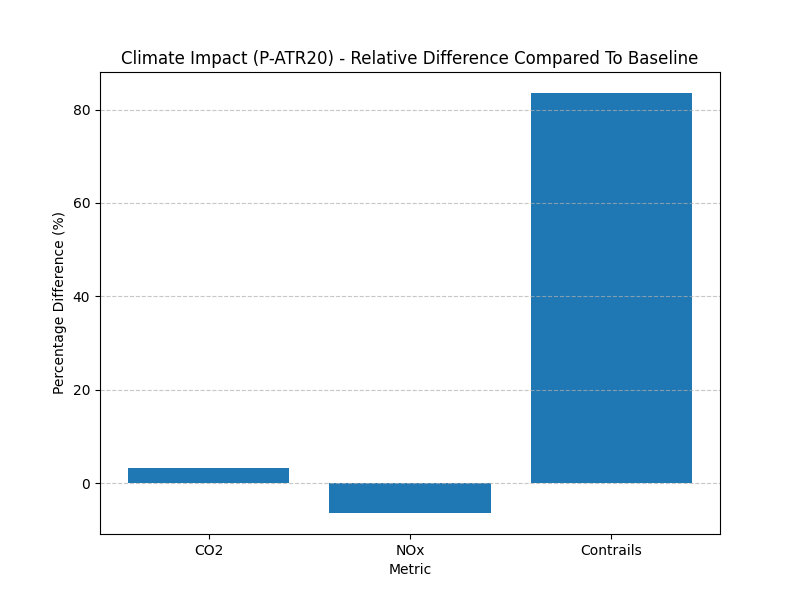
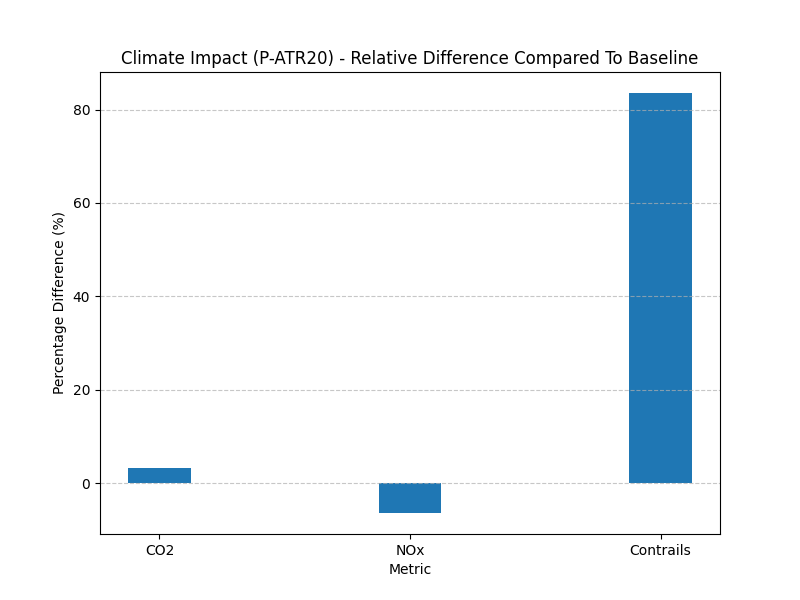
small bar chart changes

diff --git a/results_malaga.py b/results_malaga.py
@@ -149,15 +149,15 @@ def plot_flight_data(flight_dirs, output_dirs, engine_models):
 prediction = 'mees'
 weather_model = 'era5model'
 engine_model_1 = 'GTF'
-prediction_2 = 'mees'
-weather_model_2 = 'era5'
+prediction_2 = 'pycontrails'
+weather_model_2 = 'era5model'
 engine_model_2 = 'GTF'
 
 flight1_dir = f"main_results_figures/results/malaga/malaga/climate/{prediction}/{weather_model}"
 flight2_dir = f"main_results_figures/results/malaga/malaga/climate/{prediction_2}/{weather_model_2}"
 
-output1_dir = f"main_results_figures/figures/malaga/malaga/climate/{prediction}/{weather_model}/cocip/{engine_model_1}/era5"
-output2_dir = f"main_results_figures/figures/malaga/malaga/climate/{prediction_2}/{weather_model_2}/cocip/{engine_model_2}/era5"
+output1_dir = f"main_results_figures/figures/malaga/malaga/climate/{prediction}/{weather_model}/cocip/{engine_model_1}/pycontrails"
+output2_dir = f"main_results_figures/figures/malaga/malaga/climate/{prediction_2}/{weather_model_2}/cocip/{engine_model_2}/pycontrails"
 
 plot_flight_data([flight1_dir, flight2_dir], [output1_dir, output2_dir], [engine_model_1, engine_model_2])
 
@@ -194,28 +194,31 @@ percentage_differences = {
 
 # Create a bar plot
 plt.figure(figsize=(8, 6))
-plt.bar(percentage_differences.keys(), percentage_differences.values())
+x_emissions = np.arange(len(percentage_differences))
+plt.bar(x_emissions, list(percentage_differences.values()), width=0.5)
+plt.xticks(x_emissions, list(percentage_differences.keys()))
 plt.xlabel("Metric")
 plt.ylabel("Percentage Difference (%)")
 plt.title("Emissions - Relative Difference Compared To Baseline")
 plt.grid(axis='y', linestyle='--', alpha=0.7)
 plt.savefig(f'results_report/climate_sensitivity_chapter/{prediction}_{prediction_2}_{weather_model}_{weather_model_2}_emissions.png', format='png')
-plt.show()
+
 
 
 dt = 60
 
 total_co2_impact_1 = (df_1['fuel_flow']*dt*df_1['accf_sac_aCCF_CO2']).sum()
 total_co2_impact_gsp_2 = (df_2['fuel_flow']*dt*df_2['accf_sac_aCCF_CO2']).sum()
-
+print(total_co2_impact_1)
+print(total_co2_impact_gsp_2)
 total_nox_impact_1 = (df_1['fuel_flow']*dt*(df_1['accf_sac_aCCF_O3']+df_1['accf_sac_aCCF_CH4']*1.29)*df_1['ei_nox']).sum()
 total_nox_impact_gsp_2 = (df_2['fuel_flow']*dt*(df_2['accf_sac_aCCF_O3']+df_2['accf_sac_aCCF_CH4']*1.29)*df_2['ei_nox']).sum()
 print(total_nox_impact_1)
 print(total_nox_impact_gsp_2)
 total_cocip_atr20_impact_1 = np.absolute(df_1['cocip_atr20'].sum()*0.42)
 total_cocip_atr20_impact_gsp_2 = np.absolute(df_2['cocip_atr20'].sum()*0.42)
-total_cocip_atr20_impact_1 = df_1['cocip_atr20'].sum()*0.42
-total_cocip_atr20_impact_gsp_2 = df_2['cocip_atr20'].sum()*0.42
+# total_cocip_atr20_impact_1 = df_1['cocip_atr20'].sum()*0.42
+# total_cocip_atr20_impact_gsp_2 = df_2['cocip_atr20'].sum()*0.42
 print(total_cocip_atr20_impact_1)
 print(total_cocip_atr20_impact_gsp_2)
 # total_non_co2_impact_1 = df_1['accf_sac_nox_impact'].sum()+df_1['cocip_atr20'].sum()
@@ -234,7 +237,9 @@ percentage_climate_differences = [
 ]
 
 plt.figure(figsize=(8, 6))
-plt.bar(impact_labels, percentage_climate_differences)
+x_climate = np.arange(len(impact_labels))
+plt.bar(x_climate, percentage_climate_differences, width=0.25)
+plt.xticks(x_climate, impact_labels)
 plt.xlabel("Metric")
 plt.ylabel("Percentage Difference (%)")
 plt.title("Climate Impact (P-ATR20) - Relative Difference Compared To Baseline")
